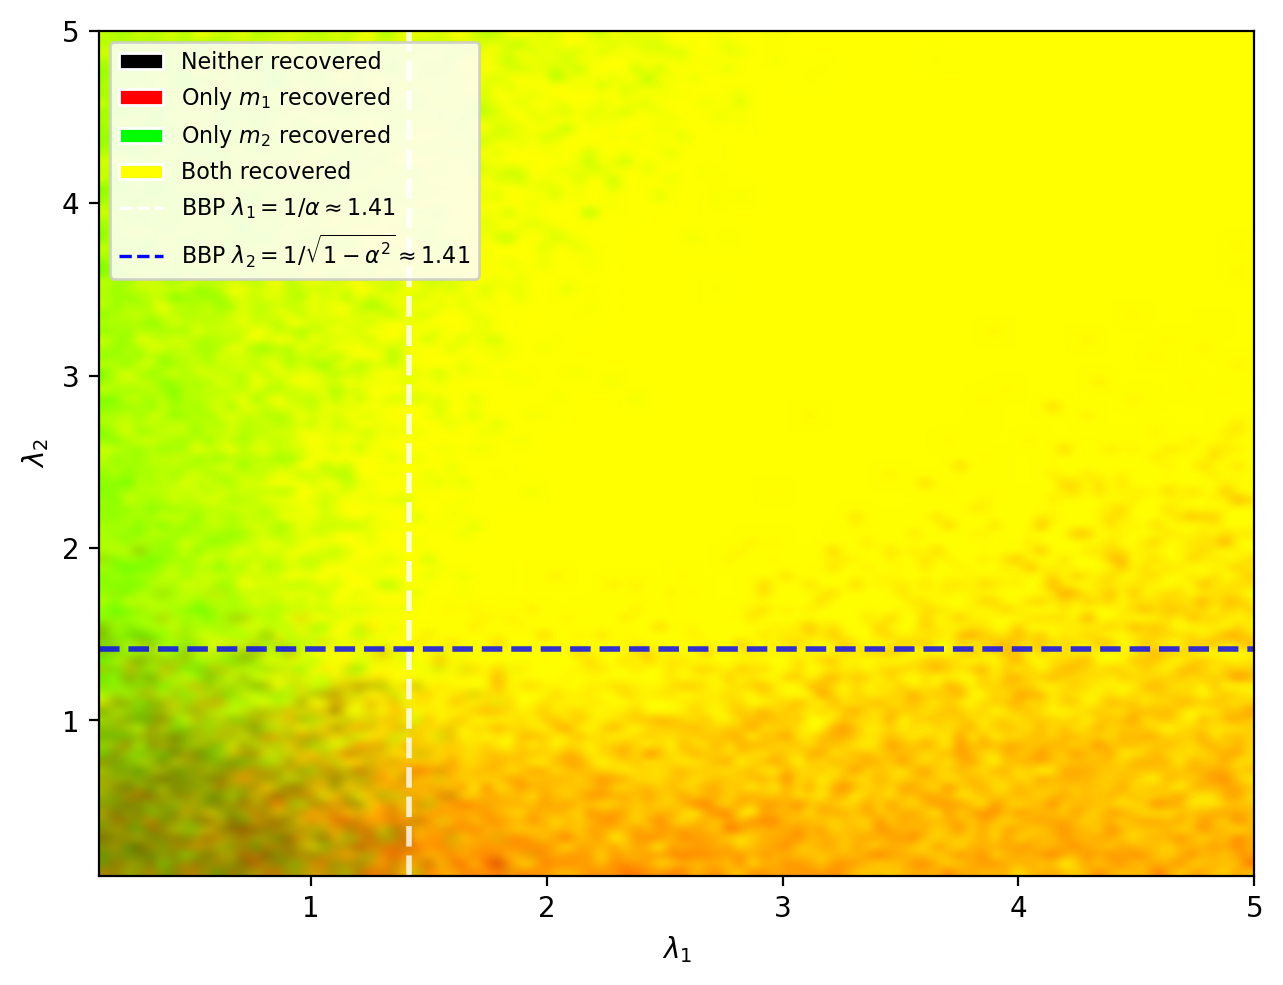
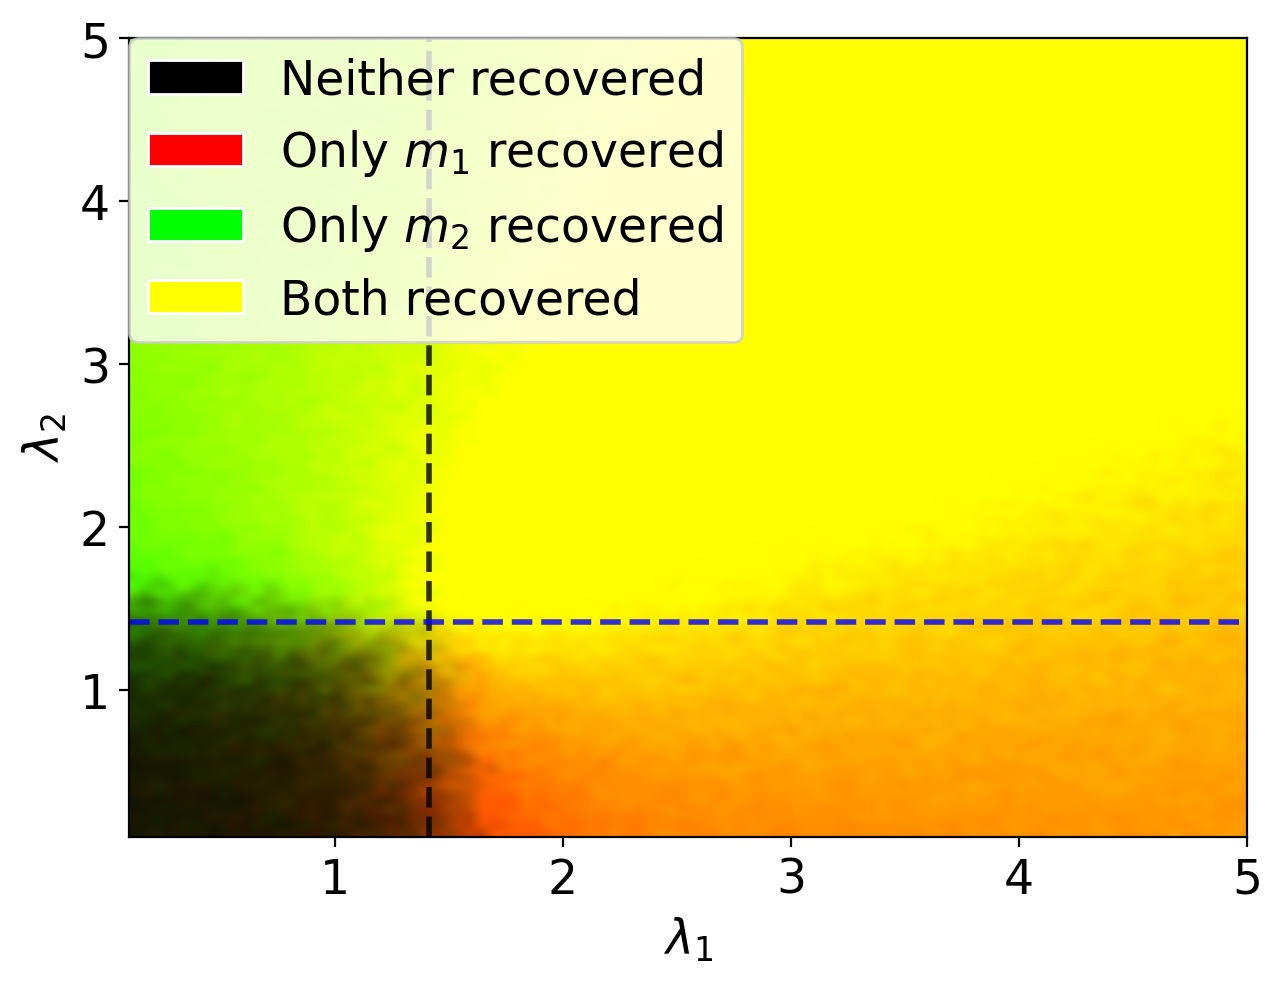
ewc

diff --git a/Spike_code/phase_diagram.py b/Spike_code/phase_diagram.py
@@ -1,3 +1,26 @@
+"""
+Phase-diagram script split into two stages:
+
+    1. compute_results(...) -> populates / reuses an in-memory cache so the
+       expensive `m.phase_diagram_continuous` call is only run once per
+       (rho, alpha) combination. Optionally persists the cache to disk so
+       results survive a Python restart.
+
+    2. plot_results(...) -> reads from the cache and only does the plotting,
+       so you can tweak aesthetics and re-run as many times as you want
+       without recomputing anything.
+
+Typical workflow in an interactive session (IPython / Jupyter):
+
+    from phase_diagram import compute_results, plot_results, RESULTS
+
+    compute_results()        # heavy, do this once
+    plot_results()           # cheap, re-run after editing aesthetics
+
+If you change a plotting parameter (colors, fontsize, OVERLAP_MAX, ...),
+just edit `plot_results` and call it again — `RESULTS` stays in memory.
+"""
+
 from matplotlib.lines import Line2D
 import matplotlib.pyplot as plt
 import matplotlib.patches as mpatches
@@ -5,9 +28,13 @@ import numpy as np
 import model_2 as m
 import importlib
 import os
+import pickle
 
 importlib.reload(m)
 
+# ---------------------------------------------------------------------------
+# Parameters
+# ---------------------------------------------------------------------------
 N = 300
 lambas1 = np.linspace(0.1, 5, 100)
 lambas2 = np.linspace(0.1, 5, 100)
@@ -24,73 +51,198 @@ OVERLAP_MAX = 0.5
 save_dir = os.path.join(os.path.dirname(__file__), "..", "Plots", "Spike")
 os.makedirs(save_dir, exist_ok=True)
 
-for rho in rhos:
-    for alpha in alphas:
-        print(f"Running rho={rho:.2f}, alpha={alpha:.2f} ...")
-        overlap1, overlap2 = m.phase_diagram_continuous(
-            N, rho, alpha, lambas1, lambas2, N_gradient_descent, N_average
-        )
+# Where to optionally persist the cache between Python sessions.
+CACHE_FILE = os.path.join(os.path.dirname(__file__), "phase_diagram_cache.pkl")
 
-        # Normalize each overlap to [0, 1] and transpose so that
-        # axis 0 -> lambda2 (y) and axis 1 -> lambda1 (x).
-        o1 = np.clip(overlap1 / OVERLAP_MAX, 0, 1).T
-        o2 = np.clip(overlap2 / OVERLAP_MAX, 0, 1).T
 
-        # Build an RGB image.
-        #   R = overlap1  ->  red  = only spike 1 recovered
-        #   G = overlap2  ->  green = only spike 2 recovered
-        #   R + G         ->  yellow = both recovered
-        #   0             ->  black  = neither recovered
-        rgb = np.zeros((*o1.shape, 3))
-        rgb[..., 0] = o1
-        rgb[..., 1] = o2
+# ---------------------------------------------------------------------------
+# In-memory cache
+# ---------------------------------------------------------------------------
+# Maps (rho, alpha, N, len(lambas1), len(lambas2), N_gradient_descent, N_average)
+# -> (overlap1, overlap2). Including the grid params in the key prevents
+# silently reusing results computed with a different grid.
+RESULTS = {}
 
-        fig, ax = plt.subplots(figsize=(6.5, 5), dpi=150)
-        ax.imshow(
-            rgb,
-            origin="lower",
-            extent=[lambas1[0], lambas1[-1], lambas2[0], lambas2[-1]],
-            aspect="auto",
-            interpolation="bicubic",
-        )
-        lam1_bbp = 1.0 / alpha
-        lam2_bbp = 1.0 / np.sqrt(1.0 - alpha**2)
 
-        ax.axvline(lam1_bbp, color="black", ls="--", lw=2, alpha=0.8,
-                label=rf"BBP threshold for $\lambda_1$")
-        ax.axhline(lam2_bbp, color="blue", ls="--",  lw=2, alpha=0.8,
-                label=rf"BBP threshold for $\lambda_2$")
+def _cache_key(rho, alpha):
+    return (
+        float(rho),
+        float(alpha),
+        int(N),
+        int(len(lambas1)),
+        int(len(lambas2)),
+        int(N_gradient_descent),
+        int(N_average),
+    )
 
-        ax.set_xlabel(r"$\lambda_1$", fontsize=24)
-        ax.set_ylabel(r"$\lambda_2$", fontsize=24)
-        ax.tick_params(axis='both', which='major', labelsize=20)
 
-        legend_patches = [
-            mpatches.Patch(facecolor=(0, 0, 0), edgecolor="white",
-                           label="Neither recovered"),
-            mpatches.Patch(facecolor=(1, 0, 0), edgecolor="white",
-                           label=r"Only $m_1$ recovered"),
-            mpatches.Patch(facecolor=(0, 1, 0), edgecolor="white",
-                           label=r"Only $m_2$ recovered"),
-            mpatches.Patch(facecolor=(1, 1, 0), edgecolor="white",
-                           label="Both recovered"),
-            Line2D([0], [0], color="black", ls="--", lw=1.2,
-                label=rf"BBP threshold for $\lambda_1$"),
-            Line2D([0], [0], color="blue", ls="--",  lw=1.2,
-           label=rf"BBP threshold for $\lambda_2$"),
-        ]
-        ax.legend(
-            handles=legend_patches,
-            loc="upper left",
-            framealpha=0.85,
-            fontsize=20,
-        )
+def load_cache(path=CACHE_FILE):
+    """Load a previously-saved cache from disk into RESULTS (if present)."""
+    global RESULTS
+    if os.path.exists(path):
+        with open(path, "rb") as f:
+            RESULTS = pickle.load(f)
+        print(f"Loaded {len(RESULTS)} cached entries from {path}")
+    else:
+        print(f"No cache file at {path}; starting fresh.")
+    return RESULTS
 
-        fig.tight_layout()
-        fig.savefig(
-            f"./Plots/phase_transi/Phase_Diagram_alpha={alpha:.2f}_rho={rho:.2f}.png",
-            dpi=200,
-            bbox_inches="tight",
-        )
-        plt.close(fig)
-        print(f"  Done.")
+
+def save_cache(path=CACHE_FILE):
+    """Persist the current RESULTS dict to disk."""
+    with open(path, "wb") as f:
+        pickle.dump(RESULTS, f)
+    print(f"Saved {len(RESULTS)} cached entries to {path}")
+
+
+# ---------------------------------------------------------------------------
+# Stage 1: computation (only does work for missing entries)
+# ---------------------------------------------------------------------------
+def compute_results(force=False, persist=False):
+    """
+    Fill RESULTS for every (rho, alpha) in the configured grids.
+
+    Parameters
+    ----------
+    force : bool
+        If True, recompute even when an entry is already cached.
+    persist : bool
+        If True, save the cache to disk after computing.
+    """
+    for rho in rhos:
+        for alpha in alphas:
+            key = _cache_key(rho, alpha)
+            if not force and key in RESULTS:
+                print(f"Skipping rho={rho:.2f}, alpha={alpha:.2f} (cached).")
+                continue
+
+            print(f"Running rho={rho:.2f}, alpha={alpha:.2f} ...")
+            overlap1, overlap2 = m.phase_diagram_continuous(
+                N, rho, alpha, lambas1, lambas2, N_gradient_descent, N_average
+            )
+            RESULTS[key] = (overlap1, overlap2)
+            print("  Done.")
+
+    if persist:
+        save_cache()
+
+    return RESULTS
+
+
+# ---------------------------------------------------------------------------
+# Stage 2: plotting (cheap; only reads from RESULTS)
+# ---------------------------------------------------------------------------
+def plot_results(overlap_max=None, save=True, show=False):
+    """
+    Render every cached (rho, alpha) result. Re-run this freely after
+    tweaking aesthetics — it does not recompute anything.
+
+    Parameters
+    ----------
+    overlap_max : float, optional
+        Override the module-level OVERLAP_MAX without editing the file.
+    save : bool
+        If True, write a PNG to ./Plots/phase_transi/.
+    show : bool
+        If True, leave figures open instead of closing them (useful in
+        notebooks).
+    """
+    omax = OVERLAP_MAX if overlap_max is None else overlap_max
+    figs = {}
+
+    for rho in rhos:
+        for alpha in alphas:
+            key = _cache_key(rho, alpha)
+            if key not in RESULTS:
+                print(
+                    f"No cached result for rho={rho:.2f}, alpha={alpha:.2f}; "
+                    "call compute_results() first."
+                )
+                continue
+
+            overlap1, overlap2 = RESULTS[key]
+
+            # Normalize each overlap to [0, 1] and transpose so that
+            # axis 0 -> lambda2 (y) and axis 1 -> lambda1 (x).
+            o1 = np.clip(overlap1 / omax, 0, 1).T
+            o2 = np.clip(overlap2 / omax, 0, 1).T
+
+            # Build an RGB image.
+            #   R = overlap1  ->  red    = only spike 1 recovered
+            #   G = overlap2  ->  green  = only spike 2 recovered
+            #   R + G         ->  yellow = both recovered
+            #   0             ->  black  = neither recovered
+            rgb = np.zeros((*o1.shape, 3))
+            rgb[..., 0] = o1
+            rgb[..., 1] = o2
+
+            fig, ax = plt.subplots(figsize=(6.5, 5), dpi=150)
+            ax.imshow(
+                rgb,
+                origin="lower",
+                extent=[lambas1[0], lambas1[-1], lambas2[0], lambas2[-1]],
+                aspect="auto",
+                interpolation="bicubic",
+            )
+            lam1_bbp = 1.0 / alpha
+            lam2_bbp = 1.0 / np.sqrt(1.0 - alpha**2)
+
+            ax.axvline(lam1_bbp, color="black", ls="--", lw=2, alpha=0.8,
+                       label=rf"BBP threshold for $\lambda_1$")
+            ax.axhline(lam2_bbp, color="blue", ls="--", lw=2, alpha=0.8,
+                       label=rf"BBP threshold for $\lambda_2$")
+
+            ax.set_xlabel(r"$\lambda_1$", fontsize=17)
+            ax.set_ylabel(r"$\lambda_2$", fontsize=17)
+            ax.tick_params(axis='both', which='major', labelsize=17)
+
+            legend_patches = [
+                mpatches.Patch(facecolor=(0, 0, 0), edgecolor="white",
+                               label="Neither recovered"),
+                mpatches.Patch(facecolor=(1, 0, 0), edgecolor="white",
+                               label=r"Only $m_1$ recovered"),
+                mpatches.Patch(facecolor=(0, 1, 0), edgecolor="white",
+                               label=r"Only $m_2$ recovered"),
+                mpatches.Patch(facecolor=(1, 1, 0), edgecolor="white",
+                               label="Both recovered"),
+                #Line2D([0], [0], color="black", ls="--", lw=1.2, label=rf"BBP threshold for $\lambda_1$"),
+                #Line2D([0], [0], color="blue", ls="--", lw=1.2, label=rf"BBP threshold for $\lambda_2$"),
+            ]
+            ax.legend(
+                handles=legend_patches,
+                loc="upper left",
+                framealpha=0.8,
+                fontsize=17,
+                borderaxespad=0,
+            )
+
+            fig.tight_layout()
+
+            if save:
+                out_dir = "./Plots/phase_transi"
+                os.makedirs(out_dir, exist_ok=True)
+                fig.savefig(
+                    f"{out_dir}/Phase_Diagram_alpha={alpha:.2f}_rho={rho:.2f}.png",
+                    dpi=200,
+                    bbox_inches="tight",
+                )
+
+            figs[(rho, alpha)] = fig
+            if not show:
+                plt.close(fig)
+
+    return figs
+
+
+# ---------------------------------------------------------------------------
+# Script entry point
+# ---------------------------------------------------------------------------
+if __name__ == "__main__":
+    # Uncomment to reuse results across Python sessions:
+    # load_cache()
+
+    compute_results()
+    plot_results()
+
+    # Uncomment to persist for next time:
+    save_cache()

diff --git a/Spike_code/plot_corrolated_spikes.py b/Spike_code/plot_corrolated_spikes.py
@@ -4,6 +4,7 @@ import model as md
 import model_2 as m
 import importlib
 importlib.reload(m)
+plt.rcParams.update({'font.size': 12})
 
 N = 500
 rhos = np.linspace(0, 1, 100)
@@ -14,6 +15,7 @@ y1err, y2err = [], []
 for rho in rhos:
     a = []
     b = []
+    print("rho:", rho)
     for i in range(50):
         M = m.TwoSpikedWignerMatrix(N, lamba_1, lamba_2, rho, np.sqrt(0.5))
         x1, x2 = M.double_max_eigenvalue()
@@ -26,14 +28,17 @@ for rho in rhos:
     y2err.append(np.std(b))
 
 plt.errorbar(rhos, y1all, yerr=y1err, label='Top Eigenvalue', capsize=2)
-plt.errorbar(rhos, y2all, yerr=y2err, label='Second Eigenvalue', capsize=2)
+plt.errorbar(rhos, y2all, yerr=y2err, label='2nd Eigenvalue', capsize=2)
 plt.xlabel(r'$\rho$')
 plt.xlim(0, 1)
 plt.axhline(2, color='red', linestyle='--', label=r'BBP threshold')
 plt.ylabel('Top two eigenvalues')
 #plt.title(rf'Top two eigenvalues of Two Spiked Wigner Matrix with $\alpha$ = {np.sqrt(0.5):.2f}')
-plt.legend()
+plt.legend(loc="upper left",
+                framealpha=0.8,
+                borderaxespad=0,)
 plt.grid()
+plt.tight_layout()
 plt.savefig(f'./Plots/Spike/Two_Spiked_Wigner_Top_Eigenvalues_alpha_{np.sqrt(0.5):.2f}.png', dpi=150)
 plt.show()
 #M.ploplote(title = rf'Eigenvalue Distribution of Two Spiked Wigner Matrix with $\alpha$ = {np.sqrt(0.5):.2f}', savefig = f'Two_Spiked_Wigner_alpha_{np.sqrt(0.5):.2f}', Wigner=True, grid=True)

diff --git a/Spike_code/plot_corrolated_spikes_2.py b/Spike_code/plot_corrolated_spikes_2.py
@@ -4,6 +4,8 @@ import model as md
 import model_2 as m
 import importlib
 importlib.reload(m)
+plt.rcParams.update({'font.size': 17})
+
 
 N = 500
 rho = 0.2
@@ -15,7 +17,7 @@ alphas = np.linspace(0, 1, 100)
 for alpha in alphas:
     a = []
     b = []
-    for i in range(20):
+    for i in range(50):
         M = m.TwoSpikedWignerMatrix(N, lamba_1, lamba_2, rho, alpha)
         x1, x2 = M.double_max_eigenvalue()
         a.append(x1)
@@ -27,13 +29,15 @@ for alpha in alphas:
     y2err.append(np.std(b))
 
 plt.errorbar(alphas, y1all, yerr=y1err, label='Top Eigenvalue', capsize=2)
-plt.errorbar(alphas, y2all, yerr=y2err, label='Second Eigenvalue', capsize=2)
+plt.errorbar(alphas, y2all, yerr=y2err, label='2nd Eigenvalue', capsize=2)
 plt.xlabel(r'$\alpha$')
 plt.xlim(0, 1)
 plt.axhline(2, color='red', linestyle='--', label=r'BBP threshold')
 plt.ylabel('Top two eigenvalues')
 #plt.title(rf'Top two eigenvalues of Two Spiked Wigner Matrix with $\rho$ = 0.2')
-plt.legend()
+plt.legend(loc="upper left",
+                framealpha=0.8,
+                borderaxespad=0,)
 plt.grid()
 plt.savefig(f'./Plots/Spike/Two_Spiked_Wigner_Top_Eigenvalues_rho_0.2.png', dpi=150)
 plt.show()
